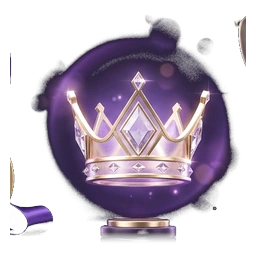
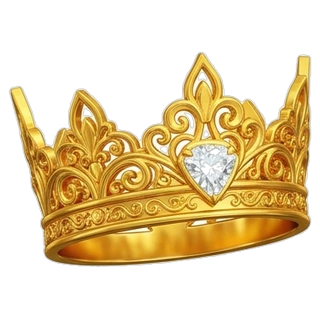
improved reward styles

diff --git a/public/index.html b/public/index.html
@@ -4536,9 +4536,9 @@
         podiumEl.classList.remove('hidden');
         podiumEl.className = 'grid grid-cols-3 gap-2.5 sm:gap-4 items-end pt-2';
         const slots = [
-          { idx: 1, h: 'pt-4 pb-3 border-slate-300/70 dark:border-slate-700', size: 74, glow: 'drop-shadow(0 10px 22px rgba(148,163,184,0.55))', emptyLbl: '2-o‘rin bo‘sh' },
-          { idx: 0, h: 'pt-5 pb-4 border-amber-400/85 dark:border-amber-500/85 shadow-xl shadow-amber-500/15', size: 96, glow: 'drop-shadow(0 12px 28px rgba(245,196,81,0.68))', emptyLbl: '1-o‘rin' },
-          { idx: 2, h: 'pt-3.5 pb-2.5 border-orange-300/70 dark:border-orange-800/70', size: 68, glow: 'drop-shadow(0 10px 20px rgba(234,140,85,0.52))', emptyLbl: '3-o‘rin bo‘sh' }
+          { idx: 1, h: 'pt-4 pb-3 border-slate-300/70 dark:border-slate-700', size: 82, glow: 'drop-shadow(0 10px 22px rgba(148,163,184,0.55))', emptyLbl: '2-o‘rin bo‘sh' },
+          { idx: 0, h: 'pt-5 pb-4 border-amber-400/85 dark:border-amber-500/85 shadow-xl shadow-amber-500/15', size: 108, glow: 'drop-shadow(0 12px 28px rgba(245,196,81,0.68))', emptyLbl: '1-o‘rin' },
+          { idx: 2, h: 'pt-3.5 pb-2.5 border-orange-300/70 dark:border-orange-800/70', size: 74, glow: 'drop-shadow(0 10px 20px rgba(234,140,85,0.52))', emptyLbl: '3-o‘rin bo‘sh' }
         ];
         podiumEl.innerHTML = slots.map((sl) => {
           const r = positiveRows[sl.idx];

diff --git a/public/assets/rewards.css b/public/assets/rewards.css
@@ -71,3 +71,13 @@
   font-weight: 800;
   letter-spacing: 0.01em;
 }
+
+/* Podium ustidagi katta 3D mukofot o'lchamlari (index.html ga tegmasdan boshqariladi) */
+#leaderboard-podium > div:nth-child(2) .sp-trophy-img { width: 132px !important; height: 132px !important; }
+#leaderboard-podium > div:nth-child(1) .sp-trophy-img { width: 96px !important; height: 96px !important; }
+#leaderboard-podium > div:nth-child(3) .sp-trophy-img { width: 86px !important; height: 86px !important; }
+@media (max-width: 640px) {
+  #leaderboard-podium > div:nth-child(2) .sp-trophy-img { width: 94px !important; height: 94px !important; }
+  #leaderboard-podium > div:nth-child(1) .sp-trophy-img { width: 70px !important; height: 70px !important; }
+  #leaderboard-podium > div:nth-child(3) .sp-trophy-img { width: 64px !important; height: 64px !important; }
+}
